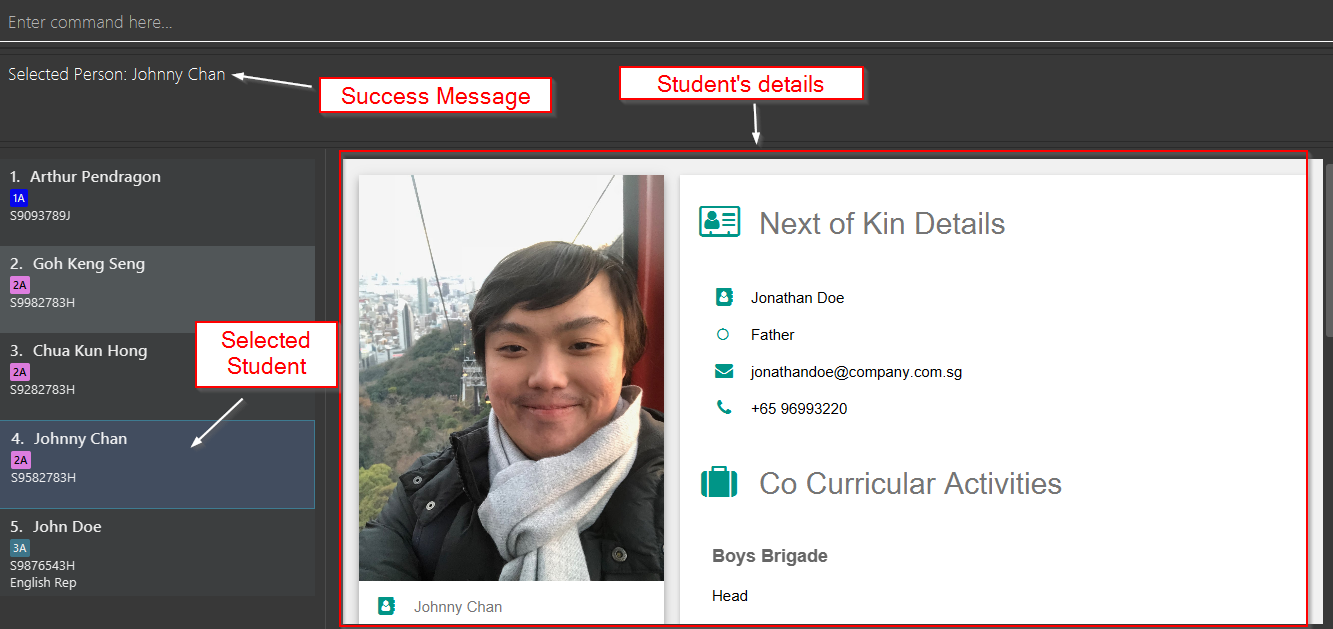
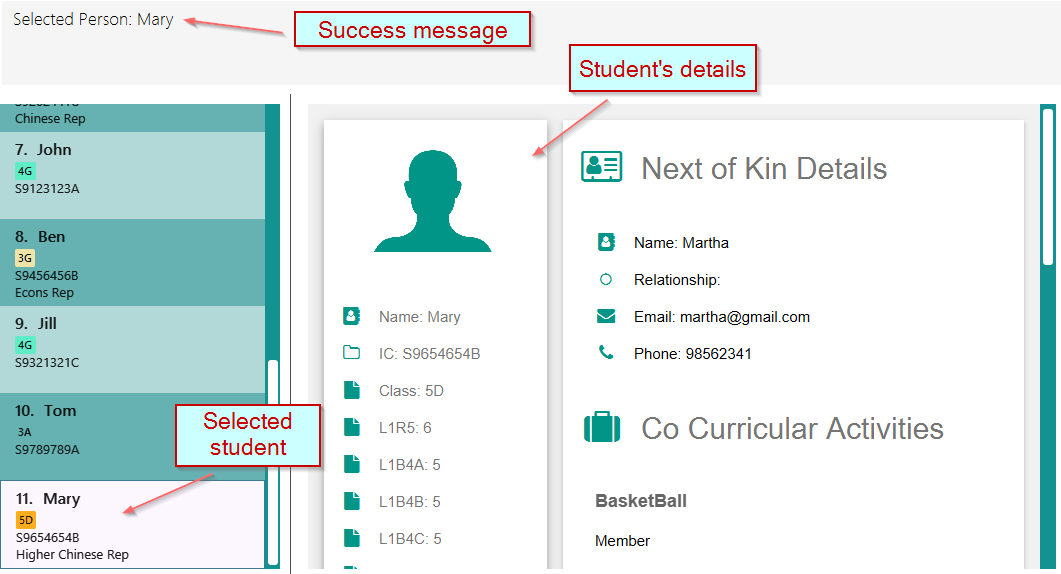
Rebuild pages at 41bf0abeb7596fa5164896c457633fc0930728ec

diff --git a/UserGuide.html b/UserGuide.html
@@ -775,11 +775,11 @@ The index <strong>must be a positive integer</strong>: 1, 2, 3, &#8230;&#8203;
 <ul>
 <li>
 <p><code>list</code><br>
-<code>select 4</code><br>
-Selects the 4th student in <em>EduBuddy</em>.</p>
+<code>select 11</code><br>
+Selects the 11th student in <em>EduBuddy</em>.</p>
 </li>
 <li>
-<p><code>find Johnny</code><br>
+<p><code>find Mary</code><br>
 <code>s 1</code><br>
 Selects the 1st student in the results of the <code>find</code> command.</p>
 </li>
@@ -1849,7 +1849,7 @@ OR<br>
 </div>
 <div id="footer">
 <div id="footer-text">
-Last updated 2018-04-15 08:59:50 UTC
+Last updated 2018-04-15 13:06:58 UTC
 </div>
 </div>
 </body>

diff --git a/team/chuakunhong.html b/team/chuakunhong.html
@@ -1263,7 +1263,7 @@ and it would cause the wanted tag to be removed instead of the unwanted one.</p>
 </div>
 <div id="footer">
 <div id="footer-text">
-Last updated 2018-04-15 08:59:50 UTC
+Last updated 2018-04-15 13:06:58 UTC
 </div>
 </div>
 </body>

diff --git a/LearningOutcomes.html b/LearningOutcomes.html
@@ -561,7 +561,7 @@ class gives some examples of how to use <em>Equivalence Partitions</em>, <em>Bou
 </div>
 <div id="footer">
 <div id="footer-text">
-Last updated 2018-04-15 08:59:50 UTC
+Last updated 2018-04-15 13:06:58 UTC
 </div>
 </div>
 </body>

diff --git a/UsingCoveralls.html b/UsingCoveralls.html
@@ -115,7 +115,7 @@ If you have not set up Travis CI, see <a href="UsingTravis.html">UsingTravis.ado
 </div>
 <div id="footer">
 <div id="footer-text">
-Last updated 2018-04-15 08:59:50 UTC
+Last updated 2018-04-15 13:06:58 UTC
 </div>
 </div>
 </body>

diff --git a/UsingGradle.html b/UsingGradle.html
@@ -261,7 +261,7 @@ See <code>build.gradle</code> &#8594; <code>allprojects</code> &#8594; <code>dep
 </div>
 <div id="footer">
 <div id="footer-text">
-Last updated 2018-04-15 08:59:50 UTC
+Last updated 2018-04-15 13:06:58 UTC
 </div>
 </div>
 </body>

diff --git a/UsingNetlify.html b/UsingNetlify.html
@@ -142,7 +142,7 @@ The publish directory is the directory in which the built HTML documentation res
 </div>
 <div id="footer">
 <div id="footer-text">
-Last updated 2018-04-15 08:59:50 UTC
+Last updated 2018-04-15 13:06:58 UTC
 </div>
 </div>
 </body>

diff --git a/team/johndoe.html b/team/johndoe.html
@@ -581,7 +581,7 @@ If the <code>redoStack</code> is empty, then there are no other commands left to
 </div>
 <div id="footer">
 <div id="footer-text">
-Last updated 2018-04-15 08:59:50 UTC
+Last updated 2018-04-15 13:06:58 UTC
 </div>
 </div>
 </body>

diff --git a/team/johnnychan.html b/team/johnnychan.html
@@ -198,7 +198,7 @@ These user-profile pages are updated in real time when called by the UI BrowserP
 </div>
 <div id="footer">
 <div id="footer-text">
-Last updated 2018-04-15 08:59:50 UTC
+Last updated 2018-04-15 13:06:58 UTC
 </div>
 </div>
 </body>

diff --git a/team/teyxinhui.html b/team/teyxinhui.html
@@ -739,7 +739,7 @@ As the students are required to take at least 6 subjects, the subjects will be s
 </div>
 <div id="footer">
 <div id="footer-text">
-Last updated 2018-04-15 08:59:50 UTC
+Last updated 2018-04-15 13:06:58 UTC
 </div>
 </div>
 </body>

diff --git a/UsingTravis.html b/UsingTravis.html
@@ -299,7 +299,7 @@ Suggested change: Remove the codacy badge from <code>README</code>.</p>
 </div>
 <div id="footer">
 <div id="footer-text">
-Last updated 2018-04-15 08:59:50 UTC
+Last updated 2018-04-15 13:06:58 UTC
 </div>
 </div>
 </body>

diff --git a/UsingCheckstyle.html b/UsingCheckstyle.html
@@ -103,7 +103,7 @@ Restart the IDE to complete the installation.</p>
 </div>
 <div id="footer">
 <div id="footer-text">
-Last updated 2018-04-15 08:59:50 UTC
+Last updated 2018-04-15 13:06:58 UTC
 </div>
 </div>
 </body>

diff --git a/team/gohkengseng.html b/team/gohkengseng.html
@@ -303,7 +303,7 @@ as an <code>UndoableCommand</code> as well.</p>
 </div>
 <div id="footer">
 <div id="footer-text">
-Last updated 2018-04-15 08:59:50 UTC
+Last updated 2018-04-15 13:06:58 UTC
 </div>
 </div>
 </body>
